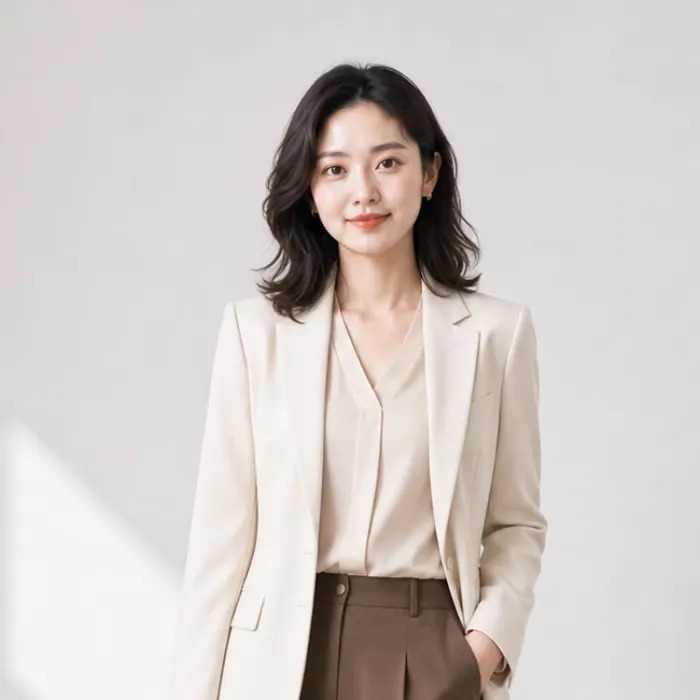
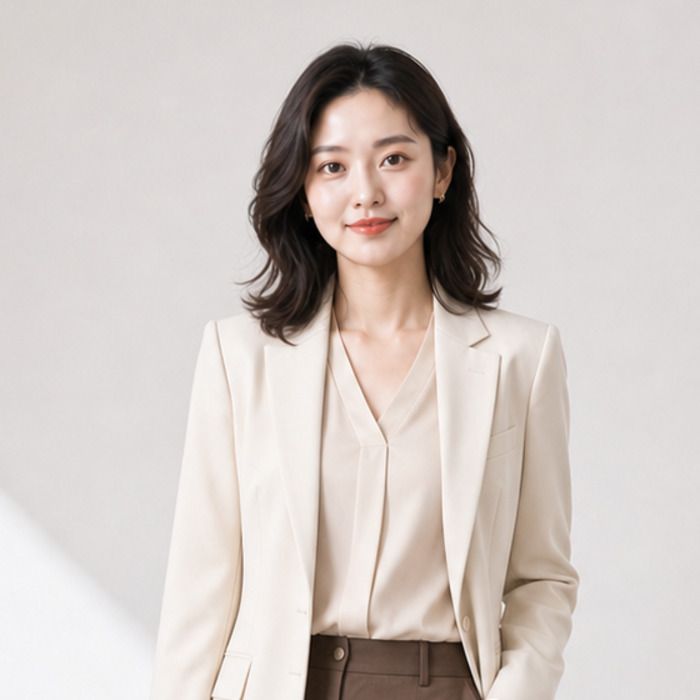
feat(miniapp): 发型参考图换高清头肩裁切，焦点位移只给生成图
- 从 1086×1448 PNG 母版重裁 700×700 头肩构图（natural/sharp/warm 三张），
  换掉 41KB 全身缩略图——劣质感的真正来源是小图+全身
- 预裁构图天然落在渲染窗口里，不再需要位移；translateY(-16%) 焦点裁切
  收窄为只作用生成图路径（--focal），参考图 0 位移（上传 1.0.20）

diff --git a/apps/miniapp/src/pages/home/index.scss b/apps/miniapp/src/pages/home/index.scss
@@ -519,13 +519,6 @@
       border-radius: 0;
       background-position: center top;
 
-      // 焦点裁切：矮横框里竖图按宽铺满后默认只露照片顶端一截
-      // （脑门+眼睛）。把整图向上移 16%，可视窗口落在 16%~54%——
-      // 发顶到下巴都完整（-19% 会削发顶、-10% 会切下巴，16% 是两头的安全带）
-      .source-image__img {
-        transform: translateY(-16%);
-      }
-
       // 参考图不放大铺边（组件的 .example-soft 已统一为轻模糊档，
       // 这里 cover 铺满，无需裁边）
       .example-soft {
@@ -533,6 +526,13 @@
         height: 100%;
         margin: 0;
       }
+    }
+
+    // 焦点裁切只给生成图（竖版人像、脸约在 15%~50%）：
+    // 矮横框按宽铺满后可视窗口落在 16%~54%，发顶到下巴都完整。
+    // 内置参考图是预裁好的头肩构图，不走这个位移
+    &--focal .source-image__img {
+      transform: translateY(-16%);
     }
 
     &-badge {

diff --git a/apps/miniapp/src/pages/home/index.tsx b/apps/miniapp/src/pages/home/index.tsx
@@ -433,8 +433,14 @@ export default function Home() {
                     </View>
                     {tool.key === 'hair' ? (
                       hairLatestMedia ? (
-                        <SourceImage className="home__tool-visual" media={hairLatestMedia} anchor="top" />
+                        <SourceImage
+                          className="home__tool-visual home__tool-visual--focal"
+                          media={hairLatestMedia}
+                          anchor="top"
+                        />
                       ) : (
+                        // 内置参考图是预裁好的头肩构图（0 位移），
+                        // 与生成图的焦点裁切分开处理
                         <SourceImage
                           className="home__tool-visual"
                           reference={{ slug: 'natural', variant: 'hair' }}
